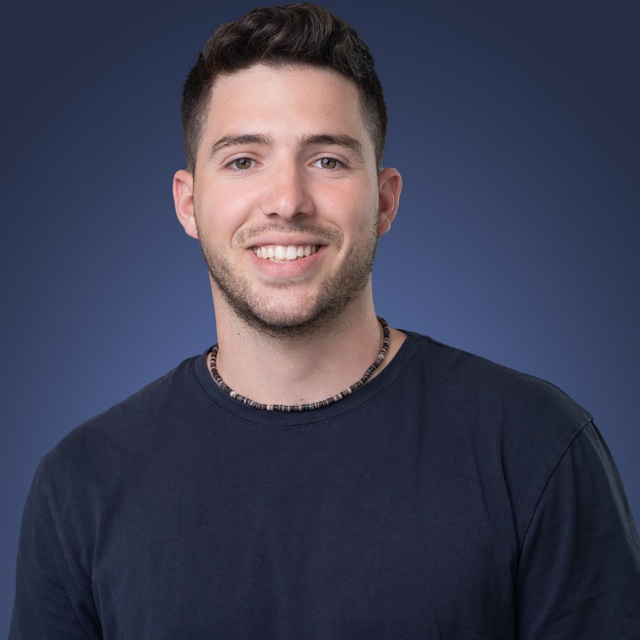
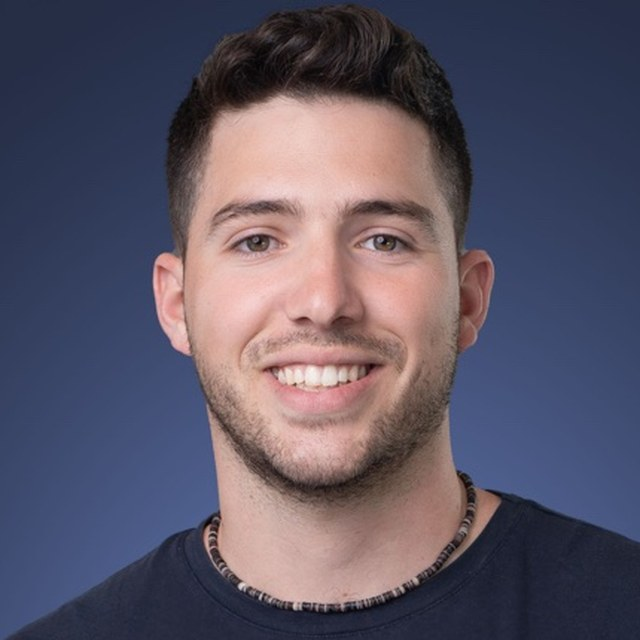
Team section: add Maayan photo, tighter face crops

diff --git a/public/index.html b/public/index.html
@@ -920,7 +920,7 @@ body{background:#FBFAF7}
       </article>
       <article class="founder rv d1">
         <div class="f-top">
-          <span class="f-av f-av2" aria-hidden="true">מ</span>
+          <img class="f-av f-photo" src="img/maayan.jpg" alt="מעיין ימין" width="72" height="72">
           <div><h3>מעיין ימין</h3><span class="f-role">CTO ומייסד שותף</span></div>
         </div>
         <ul class="f-facts">
